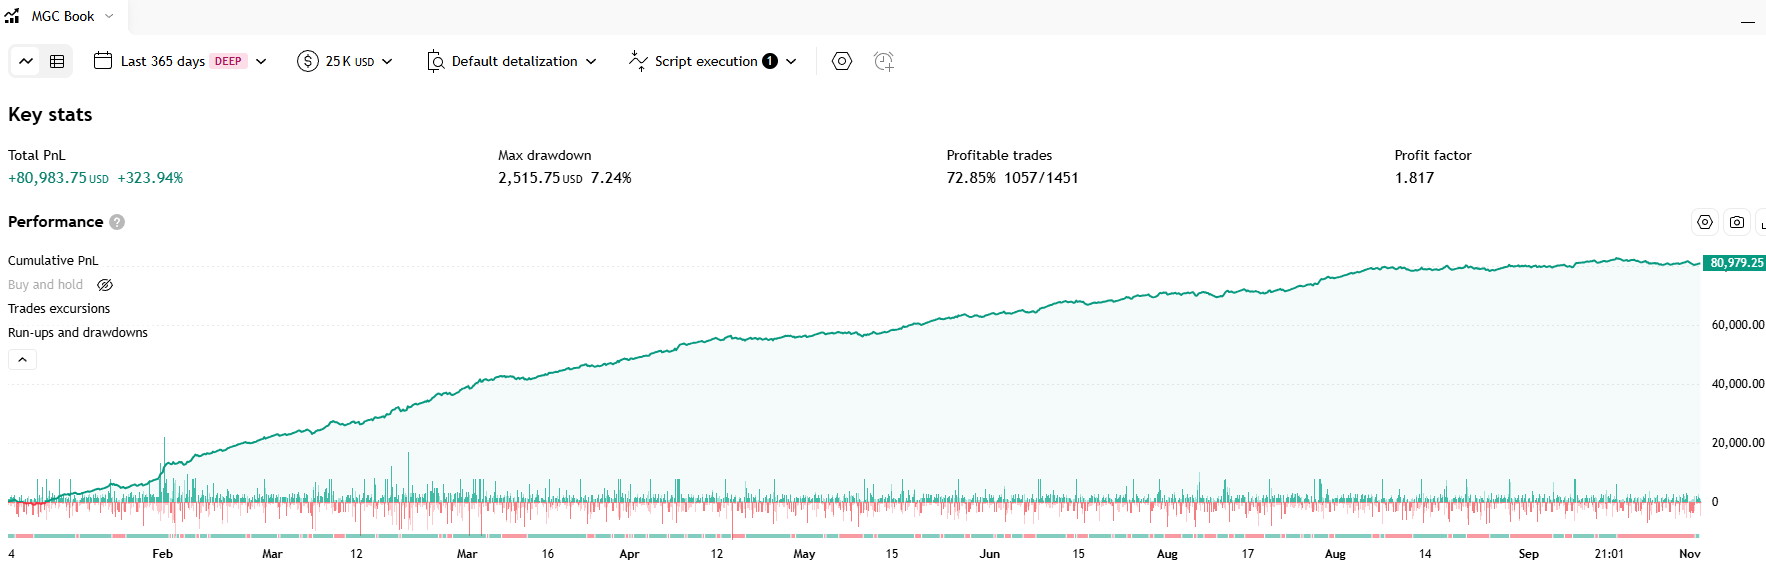
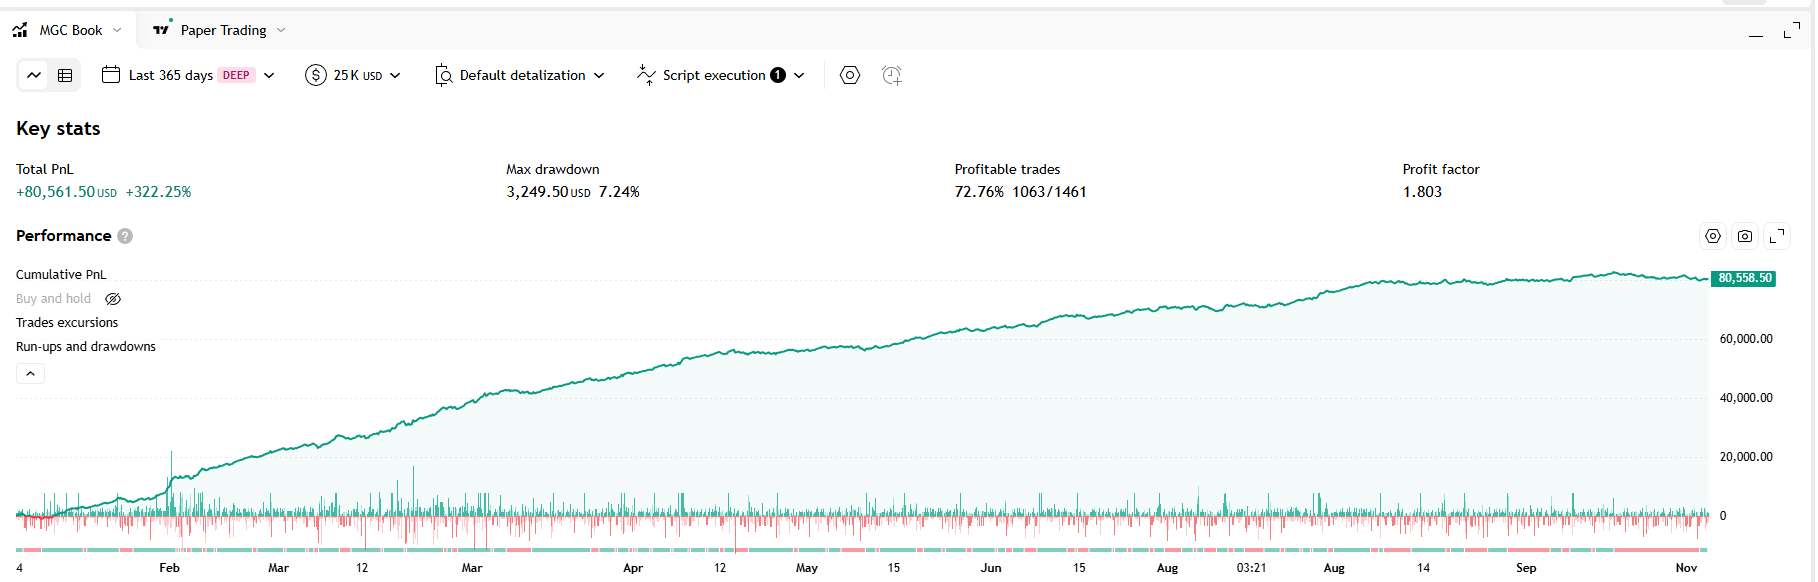
Update MNQ and MGC report images and figures; paid-plan FAQ answer
Replace book-mnq.png and book-mgc.png with the fresh 25K USD Strategy Tester
reports and every figure that reads off them. Rewrite the TradingView plan
answer (JSON-LD, visible FAQ, llms.txt).

diff --git a/index.html b/index.html
@@ -77,7 +77,7 @@
       "@id": "https://allfluencetrading.com/#faq",
       "mainEntity": [
         {"@type": "Question", "name": "Is this a signals service?", "acceptedAnswer": {"@type": "Answer", "text": "No. The indicators draw levels and the playbook's setups on your own TradingView chart; the course teaches the method behind them. You read the chart and make every decision. Nothing is traded for you."}},
-        {"@type": "Question", "name": "Do I need a paid TradingView plan?", "acceptedAnswer": {"@type": "Answer", "text": "A free TradingView account is enough to run the indicators. They are invite-only scripts added to the TradingView username you give at checkout. A paid plan only adds things like more indicators per chart and more alerts."}},
+        {"@type": "Question", "name": "Do I need a paid TradingView plan?", "acceptedAnswer": {"@type": "Answer", "text": "We recommend one. Bar history sets how far back All Fluence can compile data to paint its levels, and your TradingView plan sets how much history you get. Essential works, and a higher plan gives you more data. A paid plan also lets you use alerts. The indicators are invite-only scripts added to the TradingView username you give at checkout."}},
         {"@type": "Question", "name": "Which markets are covered?", "acceptedAnswer": {"@type": "Answer", "text": "MNQ (Micro Nasdaq) and MGC (Micro Gold) are the instruments the Master Trader indicators are built on. The same charts apply to NQ and GC at full size. The All Fluence indicator itself is a general-purpose overlay."}},
         {"@type": "Question", "name": "Can I cancel? Is there a refund?", "acceptedAnswer": {"@type": "Answer", "text": "Billing is through Whop: the standard plan is three monthly payments of $100 after a 14-day free trial, $300 in total; after the third payment Whop stops billing and the membership stays active. Other billing options are listed on Whop. Cancel inside the trial and nothing is charged; after that, manage or cancel from your Whop account. Whop also lists a 7-day money-back guarantee on the first charge, one per customer. Indicator and Discord access end if the membership ends, for example when you cancel."}},
         {"@type": "Question", "name": "Do you promise results?", "acceptedAnswer": {"@type": "Answer", "text": "No. These are educational tools. Futures trading involves substantial risk of loss and is not suitable for every investor. Nothing on this site or in the membership is financial advice."}},
@@ -129,16 +129,16 @@
       <p class="demo-cap"><strong>MNQ Master Trader</strong> backtest replay · MNQ 1-minute chart · Jan 1 – Sep 1, 2026</p>
     <div class="hero-report">
       <figure class="screen slim">
-        <a href="/assets/book-mnq.png" data-lb aria-label="Open full size"><img src="/assets/book-mnq.png" width="1785" height="580" alt="TradingView Strategy Tester for the MNQ Book, last 365 days: total P&L +86,063.50 USD (+8,606.35%), max drawdown 2,292.25 USD, profitable trades 74.25% (1165 of 1569), profit factor 2.334, with the cumulative P&L curve" loading="lazy"></a>
+        <a href="/assets/book-mnq.png" data-lb aria-label="Open full size"><img src="/assets/book-mnq.png" width="1813" height="577" alt="TradingView Strategy Tester for the MNQ Book, last 365 days: total P&L +85,729.50 USD (+342.92%), max drawdown 2,292.25 USD (6.48%), profitable trades 74.14% (1170 of 1578), profit factor 2.316, with the cumulative P&L curve" loading="lazy"></a>
         <figcaption>MNQ Master Trader results · TradingView Strategy Tester · MNQ Book · last 365 days · tap to zoom</figcaption>
       </figure>
       <ul class="stats" aria-label="MNQ Book results">
-        <li><b>+86,063.50</b><span>USD net profit</span></li>
-        <li><b>74.25%</b><span>profitable trades<br>1,165 of 1,569</span></li>
-        <li><b>2.334</b><span>profit factor</span></li>
-        <li><b>2,292.25</b><span>USD max drawdown · 142.88% of the 1,000 USD start</span></li>
+        <li><b>+85,729.50</b><span>USD net profit</span></li>
+        <li><b>74.14%</b><span>profitable trades<br>1,170 of 1,578</span></li>
+        <li><b>2.316</b><span>profit factor</span></li>
+        <li><b>2,292.25</b><span>USD max drawdown · 6.48%</span></li>
       </ul>
-      <p class="fine">The MNQ Book is the strategy version of the MNQ Master Trader, run in TradingView's Strategy Tester. The video is that backtest replayed bar by bar. Hypothetical Strategy Tester results, not a live account, from a nominal 1,000 USD start that the 2,292.25 USD max drawdown exceeds, so a real 1,000 USD account would not have survived it. Size from the USD drawdown.</p>
+      <p class="fine">The MNQ Book is the strategy version of the MNQ Master Trader, run in TradingView's Strategy Tester. The video is that backtest replayed bar by bar. Hypothetical Strategy Tester results, not a live account, from a 25,000 USD start. Size from the USD drawdown.</p>
     </div>
     </div>
   </div>
@@ -186,13 +186,13 @@
       </div>
       <figure class="screen"><a href="/assets/mnq-master-trader.png" data-lb aria-label="Open full size"><img src="/assets/mnq-master-trader.png" width="1600" height="730" alt="MNQ Master Trader on the MNQ 1-minute chart: a full session of labelled setups, the per-setup strategy table (trades, win rate, profit factor, drawdown) and the month calendar" loading="lazy"></a><figcaption>MNQ1! · 1 min · setups, strategy table, month view</figcaption></figure>
       <div class="report" id="perf-mnq">
-        <div class="report-head"><p class="index">Performance report · MNQ Book · last 365 days · 1,000 USD start</p><p class="big">+86,063.50 <small>USD</small></p></div>
-        <figure class="screen slim"><a href="/assets/book-mnq.png" data-lb aria-label="Open full size"><img src="/assets/book-mnq.png" width="1785" height="580" alt="TradingView Strategy Tester for the MNQ Book, last 365 days: total P&L +86,063.50 USD (+8,606.35%), max drawdown 2,292.25 USD, profitable trades 74.25% (1165 of 1569), profit factor 2.334, with the cumulative P&L curve" loading="lazy"></a></figure>
+        <div class="report-head"><p class="index">Performance report · MNQ Book · last 365 days · 25,000 USD start</p><p class="big">+85,729.50 <small>USD</small></p></div>
+        <figure class="screen slim"><a href="/assets/book-mnq.png" data-lb aria-label="Open full size"><img src="/assets/book-mnq.png" width="1813" height="577" alt="TradingView Strategy Tester for the MNQ Book, last 365 days: total P&L +85,729.50 USD (+342.92%), max drawdown 2,292.25 USD (6.48%), profitable trades 74.14% (1170 of 1578), profit factor 2.316, with the cumulative P&L curve" loading="lazy"></a></figure>
         <ul class="kpis">
-          <li><b>1,569</b><span>trades</span></li>
-          <li><b>74.25%</b><span>profitable</span></li>
-          <li><b>2.334</b><span>profit factor</span></li>
-          <li><b>2,292</b><span>USD max drawdown · 142.88% of the 1,000 USD start</span></li>
+          <li><b>1,578</b><span>trades</span></li>
+          <li><b>74.14%</b><span>profitable</span></li>
+          <li><b>2.316</b><span>profit factor</span></li>
+          <li><b>2,292</b><span>USD max drawdown · 6.48%</span></li>
         </ul>
       </div>
     </article>
@@ -208,13 +208,13 @@
       </div>
       <figure class="screen"><a href="/assets/mgc-master-trader.png" data-lb aria-label="Open full size"><img src="/assets/mgc-master-trader.png" width="1600" height="723" alt="MGC Master Trader on the MGC 1-minute chart: London, Tokyo and New York session setups with entry boxes, stops, targets and partial exits, the strategy table and the month calendar" loading="lazy"></a><figcaption>MGC1! · 1 min · session setups, strategy table, month view</figcaption></figure>
       <div class="report" id="perf-mgc">
-        <div class="report-head"><p class="index gold">Performance report · MGC Book · last 365 days · 25,000 USD start</p><p class="big">+80,983.75 <small>USD</small></p></div>
-        <figure class="screen slim"><a href="/assets/book-mgc.png" data-lb aria-label="Open full size"><img src="/assets/book-mgc.png" width="1766" height="581" alt="TradingView Strategy Tester for the MGC Book, last 365 days: total P&L +80,983.75 USD (+323.94%), max drawdown 2,515.75 USD (7.24%), profitable trades 72.85% (1057 of 1451), profit factor 1.817, with the cumulative P&L curve" loading="lazy"></a></figure>
+        <div class="report-head"><p class="index gold">Performance report · MGC Book · last 365 days · 25,000 USD start</p><p class="big">+80,561.50 <small>USD</small></p></div>
+        <figure class="screen slim"><a href="/assets/book-mgc.png" data-lb aria-label="Open full size"><img src="/assets/book-mgc.png" width="1818" height="582" alt="TradingView Strategy Tester for the MGC Book, last 365 days: total P&L +80,561.50 USD (+322.25%), max drawdown 3,249.50 USD (7.24%), profitable trades 72.76% (1063 of 1461), profit factor 1.803, with the cumulative P&L curve" loading="lazy"></a></figure>
         <ul class="kpis">
-          <li><b>1,451</b><span>trades</span></li>
-          <li><b>72.85%</b><span>profitable</span></li>
-          <li><b>1.817</b><span>profit factor</span></li>
-          <li><b>2,516</b><span>USD max drawdown · 7.24%</span></li>
+          <li><b>1,461</b><span>trades</span></li>
+          <li><b>72.76%</b><span>profitable</span></li>
+          <li><b>1.803</b><span>profit factor</span></li>
+          <li><b>3,250</b><span>USD max drawdown · 7.24%</span></li>
         </ul>
       </div>
     </article>
@@ -231,7 +231,7 @@
       <figure class="screen"><a href="/assets/all-fluence-indicator.png" data-lb aria-label="Open full size"><img src="/assets/all-fluence-indicator.png" width="1600" height="913" alt="The All Fluence indicator on the MNQ 15-minute chart: 1H and 4H structure boxes, stacked imbalances by timeframe, VWAP band, buy and sell zones, session highs and lows, opening ranges and session-open levels" loading="lazy"></a><figcaption>MNQ1! · 15 min · structure, imbalances, VWAP, sessions</figcaption></figure>
     </article>
 
-    <p class="note">The MNQ Book and MGC Book are the strategy versions of the two Master Traders, run in TradingView's Strategy Tester. Results are very similar to what the indicators show on the chart but not completely the same: trades differ by an estimated 1–5% margin of error, which does not mean worse performance, simply different. Strategy Tester results are hypothetical, do not represent actual trading or any account, and have inherent limitations. Max drawdown is shown in USD and as TradingView's percentage. The MNQ Book was run from a 1,000 USD starting balance and the MGC Book from 25,000 USD, so the two percentages are not comparable; the MNQ Book's 2,292.25 USD drawdown is larger than its starting balance, which a real 1,000 USD account could not have survived. Size from the USD drawdown, not the starting balance. The indicators do not place trades; you do.</p>
+    <p class="note">The MNQ Book and MGC Book are the strategy versions of the two Master Traders, run in TradingView's Strategy Tester. Results are very similar to what the indicators show on the chart but not completely the same: trades differ by an estimated 1–5% margin of error, which does not mean worse performance, simply different. Strategy Tester results are hypothetical, do not represent actual trading or any account, and have inherent limitations. Max drawdown is shown in USD and as TradingView's percentage. Both books were run from a 25,000 USD starting balance. Size from the USD drawdown, not the starting balance. The indicators do not place trades; you do.</p>
   </div>
 </section>
 
@@ -395,7 +395,7 @@
       <h2>Straight answers.</h2>
     </div>
     <details><summary>Is this a signals service?</summary><p>No. The indicators draw levels and the playbook's setups on your own TradingView chart; the course teaches the method behind them. You read the chart and make every decision. Nothing is traded for you.</p></details>
-    <details><summary>Do I need a paid TradingView plan?</summary><p>A free TradingView account is enough to run the indicators. They are invite-only scripts added to the TradingView username you give at checkout. A paid plan only adds things like more indicators per chart and more alerts.</p></details>
+    <details><summary>Do I need a paid TradingView plan?</summary><p>We recommend one. Bar history sets how far back All Fluence can compile data to paint its levels, and your TradingView plan sets how much history you get. Essential works, and a higher plan gives you more data. A paid plan also lets you use alerts. The indicators are invite-only scripts added to the TradingView username you give at checkout.</p></details>
     <details><summary>Which markets are covered?</summary><p>MNQ (Micro Nasdaq) and MGC (Micro Gold) are the instruments the Master Trader indicators are built on. The same charts apply to NQ and GC at full size. The All Fluence indicator itself is a general-purpose overlay.</p></details>
     <details><summary>Can I cancel? Is there a refund?</summary><p>Billing is through Whop: the standard plan is three monthly payments of $100 after a 14-day free trial, $300 in total; after the third payment Whop stops billing and the membership stays active. Other billing options are listed on Whop. Cancel inside the trial and nothing is charged; after that, manage or cancel from your Whop account. Whop also lists a 7-day money-back guarantee on the first charge, one per customer. Indicator and Discord access end if the membership ends, for example when you cancel.</p></details>
     <details><summary>Do you promise results?</summary><p>No. These are educational tools. Futures trading involves substantial risk of loss and is not suitable for every investor. Nothing on this site or in the membership is financial advice.</p></details>
